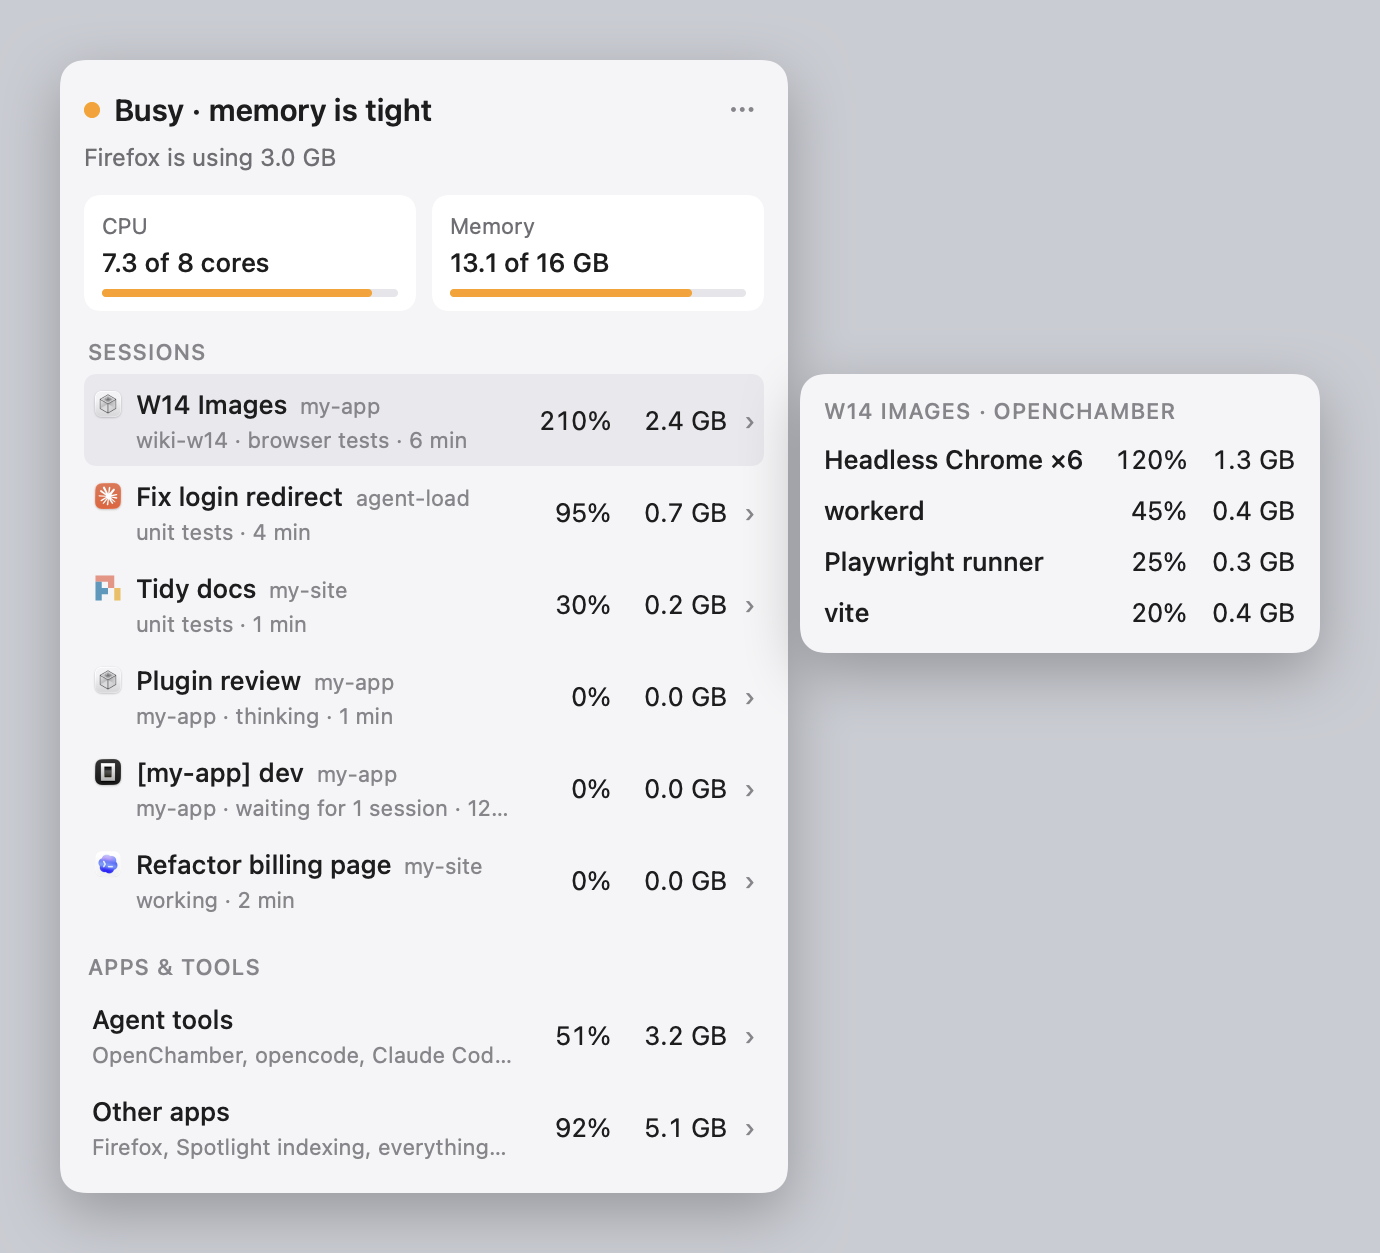
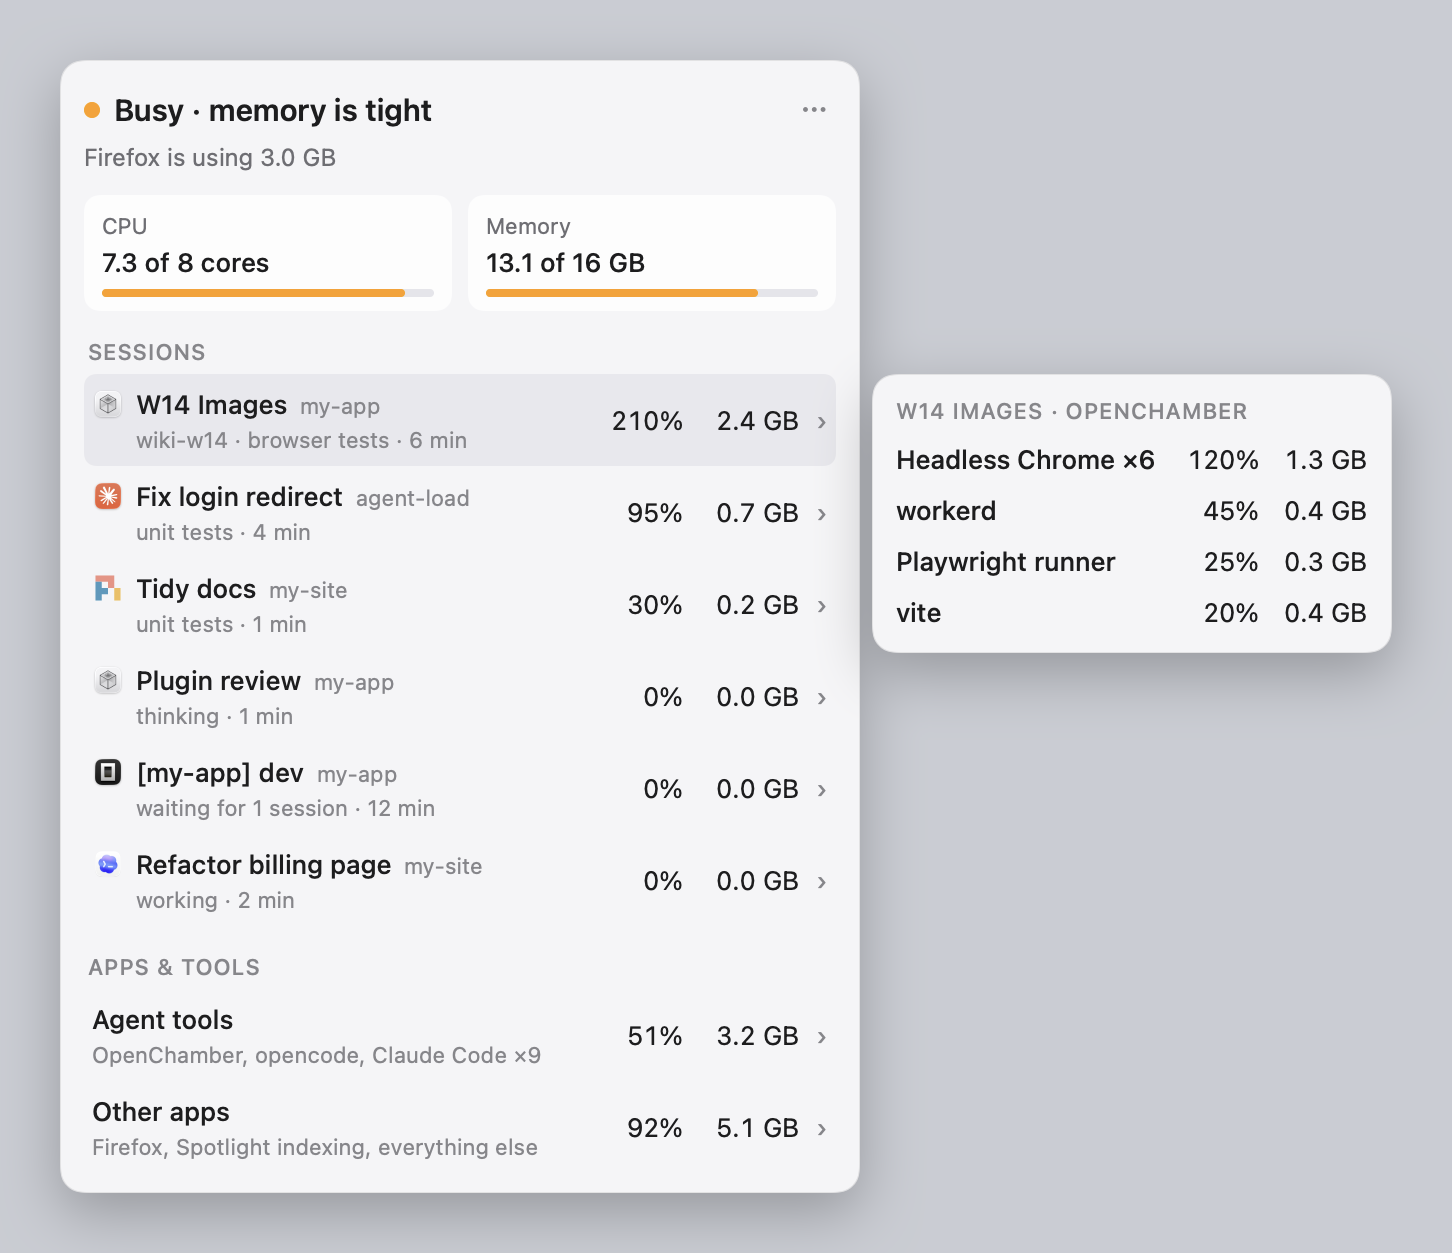
docs: 400 pt dropdown, menu material, grey line without repeated project (mockup v7, design, preview)

diff --git a/docs/mockup.html b/docs/mockup.html
@@ -7,7 +7,10 @@
      (OpenChamber, OpenCode, Claude Code, Codex, Pi), 6px before the title; the grey line is indented 22px to align with
      the title text. The folded rows under "Apps & tools" have no icon and no indent. The hover heading is
      "<title> · <harness>". The app shows each tool's official icon, loaded at runtime from the installed app; this file
-     only draws neutral placeholders (.ic) so no other company's icon is stored in the repo. -->
-<html><head><meta charset="utf-8"><title>Agent Load mockup v7</title><style>body{background:#c9ccd3;padding:30px}.wrap{display:flex;gap:6px;align-items:flex-start;flex-wrap:wrap;font-family:-apple-system,BlinkMacSystemFont,sans-serif;font-size:13px;line-height:1.5;color:#1d1d1f}.menu{width:340px;background:#f5f5f7;border-radius:12px;box-shadow:0 10px 30px rgba(0,0,0,.25);padding:12px 12px 8px}.side{width:240px;margin-top:190px;background:#f5f5f7;border-radius:12px;box-shadow:0 10px 30px rgba(0,0,0,.25);padding:10px 10px 8px}.state{font-weight:600;font-size:15px;display:flex;gap:7px;align-items:center}.dot{width:8px;height:8px;border-radius:50%;background:#ff9f0a;display:inline-block}.verdict{font-size:12px;color:#6e6e73;margin:2px 0 10px}.gs{display:grid;grid-template-columns:1fr 1fr;gap:8px;margin-bottom:10px}.gg{background:#fff;border-radius:8px;padding:7px 9px}.k{font-size:11px;color:#6e6e73}.v{font-weight:500}.track{height:4px;background:#e5e5ea;border-radius:2px;margin-top:4px}.track b{display:block;height:4px;border-radius:2px;background:#ff9f0a}.sec{font-size:11px;color:#86868b;font-weight:500;text-transform:uppercase;letter-spacing:.04em;margin:12px 2px 3px}.row{display:grid;grid-template-columns:minmax(0,1fr) 42px 52px 8px;gap:6px;padding:5px 4px;border-radius:6px;align-items:center}.row.on{background:#e8e8ed}.nm{font-weight:500;min-width:0}.l1{display:flex;align-items:baseline;gap:6px;min-width:0}.l1 .t{white-space:nowrap;overflow:hidden;text-overflow:ellipsis;min-width:0;flex:0 1 auto}.l1 .pj{font-weight:400;color:#86868b;font-size:11px;white-space:nowrap;flex:0 0 auto}.ic{width:16px;height:16px;flex:0 0 auto;align-self:center;border-radius:4px;background:#d2d2d7;color:#fff;font-size:9px;font-weight:600;line-height:16px;text-align:center}.row .nm>.sub{padding-left:22px}.row .nm.f>.sub{padding-left:0}.sub{display:block;font-weight:400;color:#86868b;font-size:11px;white-space:nowrap;overflow:hidden;text-overflow:ellipsis}.n{text-align:right;font-variant-numeric:tabular-nums}.c{color:#86868b;text-align:right}.ft{border-top:1px solid #d2d2d7;margin-top:6px;padding-top:6px;font-size:11px;color:#86868b;display:flex;justify-content:space-between}.p{display:grid;grid-template-columns:1fr 40px 48px;gap:6px;padding:3px 2px}.p>div:first-child{font-weight:500}.bar{width:340px;height:26px;border-radius:7px;background:#2f3137;display:flex;align-items:center;justify-content:flex-end;gap:12px;padding:0 10px;color:#f2f2f2;font-size:13px;margin-bottom:10px}.hl{background:rgba(255,255,255,.18);border-radius:5px;padding:2px 6px;display:flex;align-items:center;gap:5px}</style></head><body>
+     only draws neutral placeholders (.ic) so no other company's icon is stored in the repo.
+     v7, same day: dropdown 36px wider (.menu 340 → 376px; the name column takes the room), and the grey line drops the
+     folder part when it equals the project shown next to the title. The live app draws the dropdown and hover panel
+     on the translucent system menu material; this file approximates it with flat #f5f5f7. -->
+<html><head><meta charset="utf-8"><title>Agent Load mockup v7</title><style>body{background:#c9ccd3;padding:30px}.wrap{display:flex;gap:6px;align-items:flex-start;flex-wrap:wrap;font-family:-apple-system,BlinkMacSystemFont,sans-serif;font-size:13px;line-height:1.5;color:#1d1d1f}.menu{width:376px;background:#f5f5f7;border-radius:12px;box-shadow:0 10px 30px rgba(0,0,0,.25);padding:12px 12px 8px}.side{width:240px;margin-top:190px;background:#f5f5f7;border-radius:12px;box-shadow:0 10px 30px rgba(0,0,0,.25);padding:10px 10px 8px}.state{font-weight:600;font-size:15px;display:flex;gap:7px;align-items:center}.dot{width:8px;height:8px;border-radius:50%;background:#ff9f0a;display:inline-block}.verdict{font-size:12px;color:#6e6e73;margin:2px 0 10px}.gs{display:grid;grid-template-columns:1fr 1fr;gap:8px;margin-bottom:10px}.gg{background:#fff;border-radius:8px;padding:7px 9px}.k{font-size:11px;color:#6e6e73}.v{font-weight:500}.track{height:4px;background:#e5e5ea;border-radius:2px;margin-top:4px}.track b{display:block;height:4px;border-radius:2px;background:#ff9f0a}.sec{font-size:11px;color:#86868b;font-weight:500;text-transform:uppercase;letter-spacing:.04em;margin:12px 2px 3px}.row{display:grid;grid-template-columns:minmax(0,1fr) 42px 52px 8px;gap:6px;padding:5px 4px;border-radius:6px;align-items:center}.row.on{background:#e8e8ed}.nm{font-weight:500;min-width:0}.l1{display:flex;align-items:baseline;gap:6px;min-width:0}.l1 .t{white-space:nowrap;overflow:hidden;text-overflow:ellipsis;min-width:0;flex:0 1 auto}.l1 .pj{font-weight:400;color:#86868b;font-size:11px;white-space:nowrap;flex:0 0 auto}.ic{width:16px;height:16px;flex:0 0 auto;align-self:center;border-radius:4px;background:#d2d2d7;color:#fff;font-size:9px;font-weight:600;line-height:16px;text-align:center}.row .nm>.sub{padding-left:22px}.row .nm.f>.sub{padding-left:0}.sub{display:block;font-weight:400;color:#86868b;font-size:11px;white-space:nowrap;overflow:hidden;text-overflow:ellipsis}.n{text-align:right;font-variant-numeric:tabular-nums}.c{color:#86868b;text-align:right}.ft{border-top:1px solid #d2d2d7;margin-top:6px;padding-top:6px;font-size:11px;color:#86868b;display:flex;justify-content:space-between}.p{display:grid;grid-template-columns:1fr 40px 48px;gap:6px;padding:3px 2px}.p>div:first-child{font-weight:500}.bar{width:340px;height:26px;border-radius:7px;background:#2f3137;display:flex;align-items:center;justify-content:flex-end;gap:12px;padding:0 10px;color:#f2f2f2;font-size:13px;margin-bottom:10px}.hl{background:rgba(255,255,255,.18);border-radius:5px;padding:2px 6px;display:flex;align-items:center;gap:5px}</style></head><body>
 <div class='bar'><span>Wi-Fi</span><span class='hl'><span class='dot'></span>6</span><span>20:17</span></div>
-<div class='wrap'><div class='menu'><div class='state'><span class='dot'></span>Busy · memory is tight<span style='margin-left:auto;color:#86868b;letter-spacing:1px'>•••</span></div><div class='verdict'>Wait before starting another session</div><div class='gs'><div class='gg'><div class='k'>CPU</div><div class='v'>7.3 of 8 cores</div><div class='track'><b style='width:88%'></b></div></div><div class='gg'><div class='k'>Memory</div><div class='v'>13.1 of 16 GB</div><div class='track'><b style='width:82%'></b></div></div></div><div class='sec'>Sessions</div><div class='row'><div class='nm'><div class='l1'><span class='ic' title='OpenChamber'>C</span><span class='t'>W14 Images</span><span class='pj'>my-app</span></div><span class='sub'>wiki-w14 · browser tests · 6 min</span></div><div class='n'>210%</div><div class='n'>2.4 GB</div><div class='c'>›</div></div><div class='row on'><div class='nm'><div class='l1'><span class='ic' title='Claude Code'>A</span><span class='t'>Fix login redirect</span><span class='pj'>agent-load</span></div><span class='sub'>unit tests · 4 min</span></div><div class='n'>95%</div><div class='n'>0.7 GB</div><div class='c'>›</div></div><div class='row'><div class='nm'><div class='l1'><span class='ic' title='Pi'>P</span><span class='t'>Tidy docs</span><span class='pj'>my-site</span></div><span class='sub'>unit tests · 1 min</span></div><div class='n'>30%</div><div class='n'>0.2 GB</div><div class='c'>›</div></div><div class='row'><div class='nm'><div class='l1'><span class='ic' title='OpenChamber'>C</span><span class='t'>Plugin review</span><span class='pj'>my-app</span></div><span class='sub'>my-app · thinking · 1 min</span></div><div class='n'>0%</div><div class='n'>0.0 GB</div><div class='c'>›</div></div><div class='row'><div class='nm'><div class='l1'><span class='ic' title='OpenCode'>O</span><span class='t'>[my-app] dev</span><span class='pj'>my-app</span></div><span class='sub'>my-app · waiting for 1 session · 12 min</span></div><div class='n'>0%</div><div class='n'>0.0 GB</div><div class='c'>›</div></div><div class='row'><div class='nm'><div class='l1'><span class='ic' title='Codex'>X</span><span class='t'>Refactor billing page</span><span class='pj'>my-site</span></div><span class='sub'>working · 2 min</span></div><div class='n'>0%</div><div class='n'>0.0 GB</div><div class='c'>›</div></div><div class='sec'>Apps &amp; tools</div><div class='row'><div class='nm f'>Agent tools<span class='sub'>OpenChamber, opencode, Claude Code ×9</span></div><div class='n'>51%</div><div class='n'>3.2 GB</div><div class='c'>›</div></div><div class='row'><div class='nm f'>Other apps<span class='sub'>Firefox, Spotlight indexing, everything else</span></div><div class='n'>92%</div><div class='n'>5.1 GB</div><div class='c'>›</div></div></div><div class='side' style='margin-top:236px'><div class='sec' style='margin-top:0'>On hover · Fix login redirect · Claude Code</div><div class='p'><div>vitest</div><div class='n'>55%</div><div class='n'>0.3 GB</div></div><div class='p'><div>Claude Code itself</div><div class='n'>35%</div><div class='n'>0.3 GB</div></div><div class='p'><div>shell ×2</div><div class='n'>5%</div><div class='n'>0.0 GB</div></div></div></div></body></html>
+<div class='wrap'><div class='menu'><div class='state'><span class='dot'></span>Busy · memory is tight<span style='margin-left:auto;color:#86868b;letter-spacing:1px'>•••</span></div><div class='verdict'>Wait before starting another session</div><div class='gs'><div class='gg'><div class='k'>CPU</div><div class='v'>7.3 of 8 cores</div><div class='track'><b style='width:88%'></b></div></div><div class='gg'><div class='k'>Memory</div><div class='v'>13.1 of 16 GB</div><div class='track'><b style='width:82%'></b></div></div></div><div class='sec'>Sessions</div><div class='row'><div class='nm'><div class='l1'><span class='ic' title='OpenChamber'>C</span><span class='t'>W14 Images</span><span class='pj'>my-app</span></div><span class='sub'>wiki-w14 · browser tests · 6 min</span></div><div class='n'>210%</div><div class='n'>2.4 GB</div><div class='c'>›</div></div><div class='row on'><div class='nm'><div class='l1'><span class='ic' title='Claude Code'>A</span><span class='t'>Fix login redirect</span><span class='pj'>agent-load</span></div><span class='sub'>unit tests · 4 min</span></div><div class='n'>95%</div><div class='n'>0.7 GB</div><div class='c'>›</div></div><div class='row'><div class='nm'><div class='l1'><span class='ic' title='Pi'>P</span><span class='t'>Tidy docs</span><span class='pj'>my-site</span></div><span class='sub'>unit tests · 1 min</span></div><div class='n'>30%</div><div class='n'>0.2 GB</div><div class='c'>›</div></div><div class='row'><div class='nm'><div class='l1'><span class='ic' title='OpenChamber'>C</span><span class='t'>Plugin review</span><span class='pj'>my-app</span></div><span class='sub'>thinking · 1 min</span></div><div class='n'>0%</div><div class='n'>0.0 GB</div><div class='c'>›</div></div><div class='row'><div class='nm'><div class='l1'><span class='ic' title='OpenCode'>O</span><span class='t'>[my-app] dev</span><span class='pj'>my-app</span></div><span class='sub'>waiting for 1 session · 12 min</span></div><div class='n'>0%</div><div class='n'>0.0 GB</div><div class='c'>›</div></div><div class='row'><div class='nm'><div class='l1'><span class='ic' title='Codex'>X</span><span class='t'>Refactor billing page</span><span class='pj'>my-site</span></div><span class='sub'>working · 2 min</span></div><div class='n'>0%</div><div class='n'>0.0 GB</div><div class='c'>›</div></div><div class='sec'>Apps &amp; tools</div><div class='row'><div class='nm f'>Agent tools<span class='sub'>OpenChamber, opencode, Claude Code ×9</span></div><div class='n'>51%</div><div class='n'>3.2 GB</div><div class='c'>›</div></div><div class='row'><div class='nm f'>Other apps<span class='sub'>Firefox, Spotlight indexing, everything else</span></div><div class='n'>92%</div><div class='n'>5.1 GB</div><div class='c'>›</div></div></div><div class='side' style='margin-top:236px'><div class='sec' style='margin-top:0'>On hover · Fix login redirect · Claude Code</div><div class='p'><div>vitest</div><div class='n'>55%</div><div class='n'>0.3 GB</div></div><div class='p'><div>Claude Code itself</div><div class='n'>35%</div><div class='n'>0.3 GB</div></div><div class='p'><div>shell ×2</div><div class='n'>5%</div><div class='n'>0.0 GB</div></div></div></div></body></html>

diff --git a/docs/design.md b/docs/design.md
@@ -29,6 +29,19 @@ redesign. The owner reviews the look carefully.
 
 ## Dropdown (top to bottom)
 
+Width: 376 pt content + 2 × 12 pt padding = 400 pt (widened from 364 by the owner, 2026-11-14;
+the extra room goes to the name column, the number columns are unchanged). The hover side
+panel keeps its 260 pt.
+
+Surface (owner, 2026-11-14): the dropdown and the hover panel look like native menus: the
+translucent system menu material (`NSVisualEffectView`, material `.menu`, behind-window
+blending, always active), circular 12 pt corners (measured from a native menu on macOS 26),
+the window shadow, and a 0.5 pt hairline ring (black 8% in light mode, white 18% in dark).
+Gauge cards are white at 75% (light) / white at 10% (dark) so they sit on the material.
+In dark mode the grey text is white at 60% / 50% and the row highlight white at 10%, which
+stay readable on the material over a bright desktop. PNG renders (`--render-png`) cannot
+draw window material and use the flat #f5f5f7 / #2c2c2e instead.
+
 1. Headline with dot, verdict line in grey.
 2. Two gauge cards side by side:
    - **CPU**: "7.3 of 8 cores" = 1-minute load average vs core count; bar = load / cores, capped.
@@ -57,10 +70,10 @@ redesign. The owner reviews the look carefully.
    Sorted by CPU (then memory); when memory is amber/red, by memory (then CPU) instead. Rows at 0%: thinking first, then waiting, then sleeping
    (process rows), each newest first.
    - Rows without programs use the same design: grey line
-     `<project> · thinking · <time since busy>` or
-     `<project> · waiting for N sessions · <time since the oldest active descendant became busy>`
-     ("waiting for 1 session" for one); the project part is omitted for chat folders
-     (~/.config/openchamber/chats). Numbers show 0% and 0.0 GB. Hover: thinking rows show
+     `thinking · <time since busy>` or
+     `waiting for N sessions · <time since the oldest active descendant became busy>`
+     ("waiting for 1 session" for one). Their folder would be the project already shown next to
+     the title, so it is left out (see Line 2). Numbers show 0% and 0.0 GB. Hover: thinking rows show
      one grey line "Thinking. No programs running on this Mac"; waiting rows list the
      active descendant session titles. Click reveals the session directory (nothing for
      chat folders).
@@ -70,7 +83,9 @@ redesign. The owner reviews the look carefully.
    - Line 2 (small grey, always one line, truncate with "…"), indented 22 pt (icon + gap)
      so it aligns with the title text:
      `<worktree or folder name> · <activity> · <running time>`,
-     e.g. `wiki-w14 · browser tests · 6 min`.
+     e.g. `wiki-w14 · browser tests · 6 min`. The folder part is left out when it equals the
+     project name next to the title (owner, 2026-11-14): `waiting for 2 sessions · 41 min`;
+     it stays when it differs (worktrees such as `wiki-w14`).
    - Right side: CPU % (100% = one core), memory in GB, and a small grey chevron "›"
      hinting at the hover panel (row grid `minmax(0,1fr) 42px 52px 8px`).
    - Hover: a side panel headed `<TITLE> · <HARNESS>` (e.g. "FIX LOGIN REDIRECT · CLAUDE CODE")

diff --git a/docs/HOW-IT-WORKS.md b/docs/HOW-IT-WORKS.md
@@ -117,7 +117,9 @@ APP="build/Agent Load.app/Contents/MacOS/AgentLoad"
 `--mockup-data` renders the illustrative numbers from `docs/mockup.html` instead of live data.
 `--hover-claude` hovers the first Claude Code row.
 `AgentLoad --debug-click` presses the menu bar item through its real action after 4 s (to check
-that it stays highlighted while the dropdown is open).
+that it stays highlighted while the dropdown is open). `--debug-open [--debug-hover]` opens the
+dropdown (and hovers the first row); add `--debug-dark` for dark appearance. Renders draw a flat
+background; the live window uses the translucent menu material.
 
 ## Source layout
 
